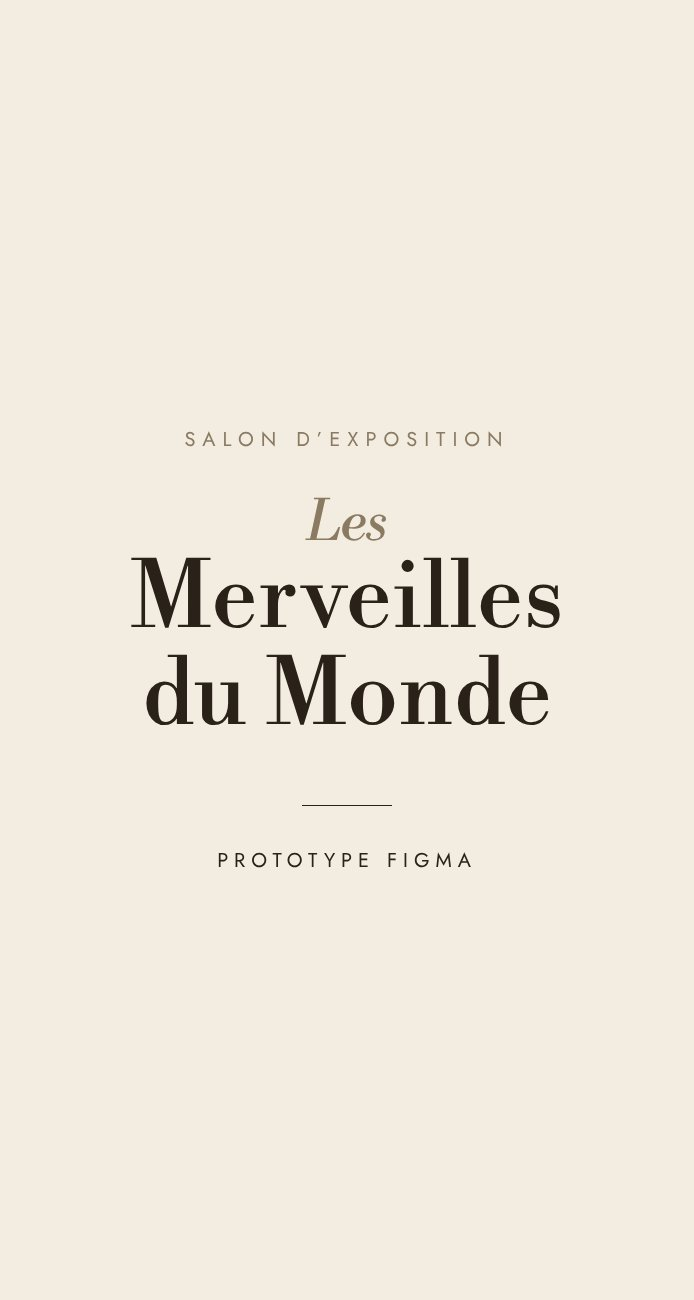
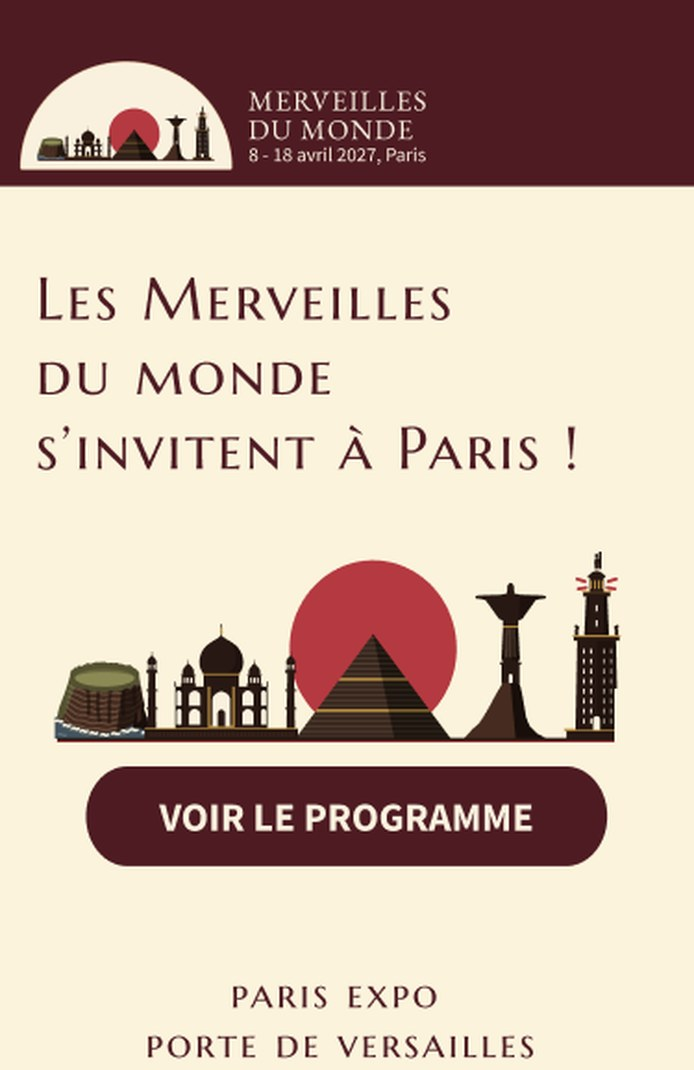
Merveilles du Monde : vraie vignette (écran d'accueil) et cadre bordeaux
Claude-Session: https://claude.ai/code/session_01E2omZNvMq8a6ti7oh1XrSp

diff --git a/index.html b/index.html
@@ -426,13 +426,13 @@ const P_ALL = [
   "id": "merveilles",
   "n": "Les Merveilles du Monde",
   "cat": "Design · Figma",
-  "bg": "#e9dfcf",
+  "bg": "#5b1c26",
   "url": "https://www.figma.com/proto/p4hTzP3unoHIusWgk0rdYX/Les-Merveilles-du-Monde?node-id=3733-18739&starting-point-node-id=3733%3A18739",
   "fig": "https://embed.figma.com/proto/p4hTzP3unoHIusWgk0rdYX/Les-Merveilles-du-Monde?node-id=3733-18739&scaling=scale-down&content-scaling=fixed&page-id=3678%3A1295&starting-point-node-id=3733%3A18739&show-proto-sidebar=0&hide-ui=1&footer=false&hotspot-hints=0&embed-host=share",
   "h": "Une appli pour vivre un salon d’exposition.",
   "d": "L’application du salon « Les Merveilles du Monde », pensée et maquettée dans Figma. Le prototype est interactif : clique dans l’écran pour le parcourir.",
   "s": [
-   "captures/merveilles-cover.jpg"
+   "captures/merveilles-cover.jpg?v=2"
   ],
   "host": "figma.com",
   "en": {
